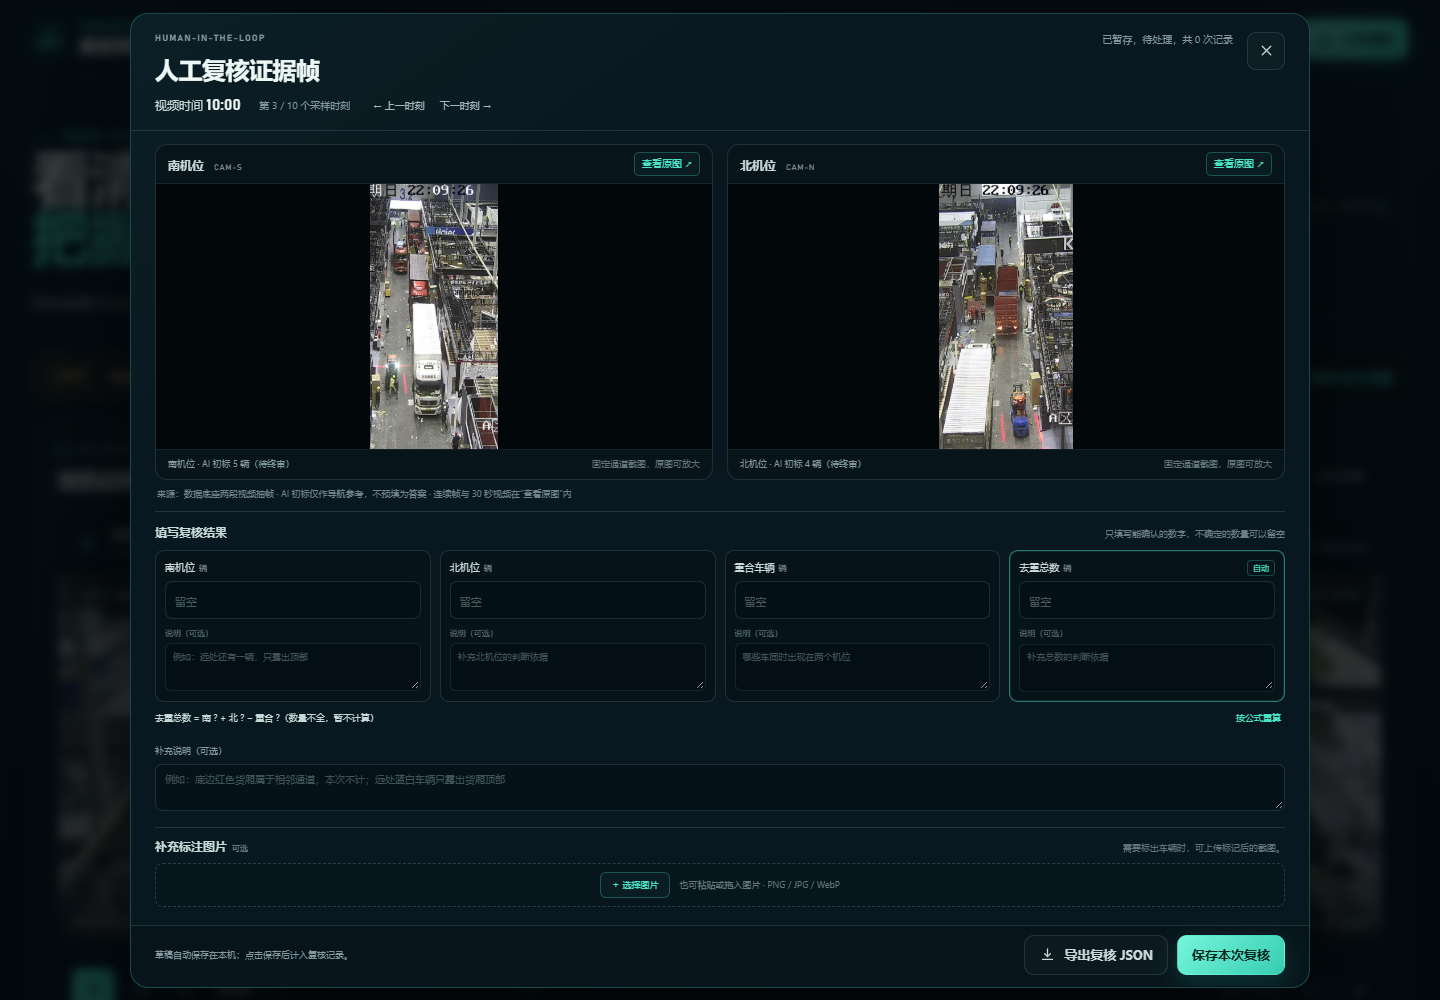
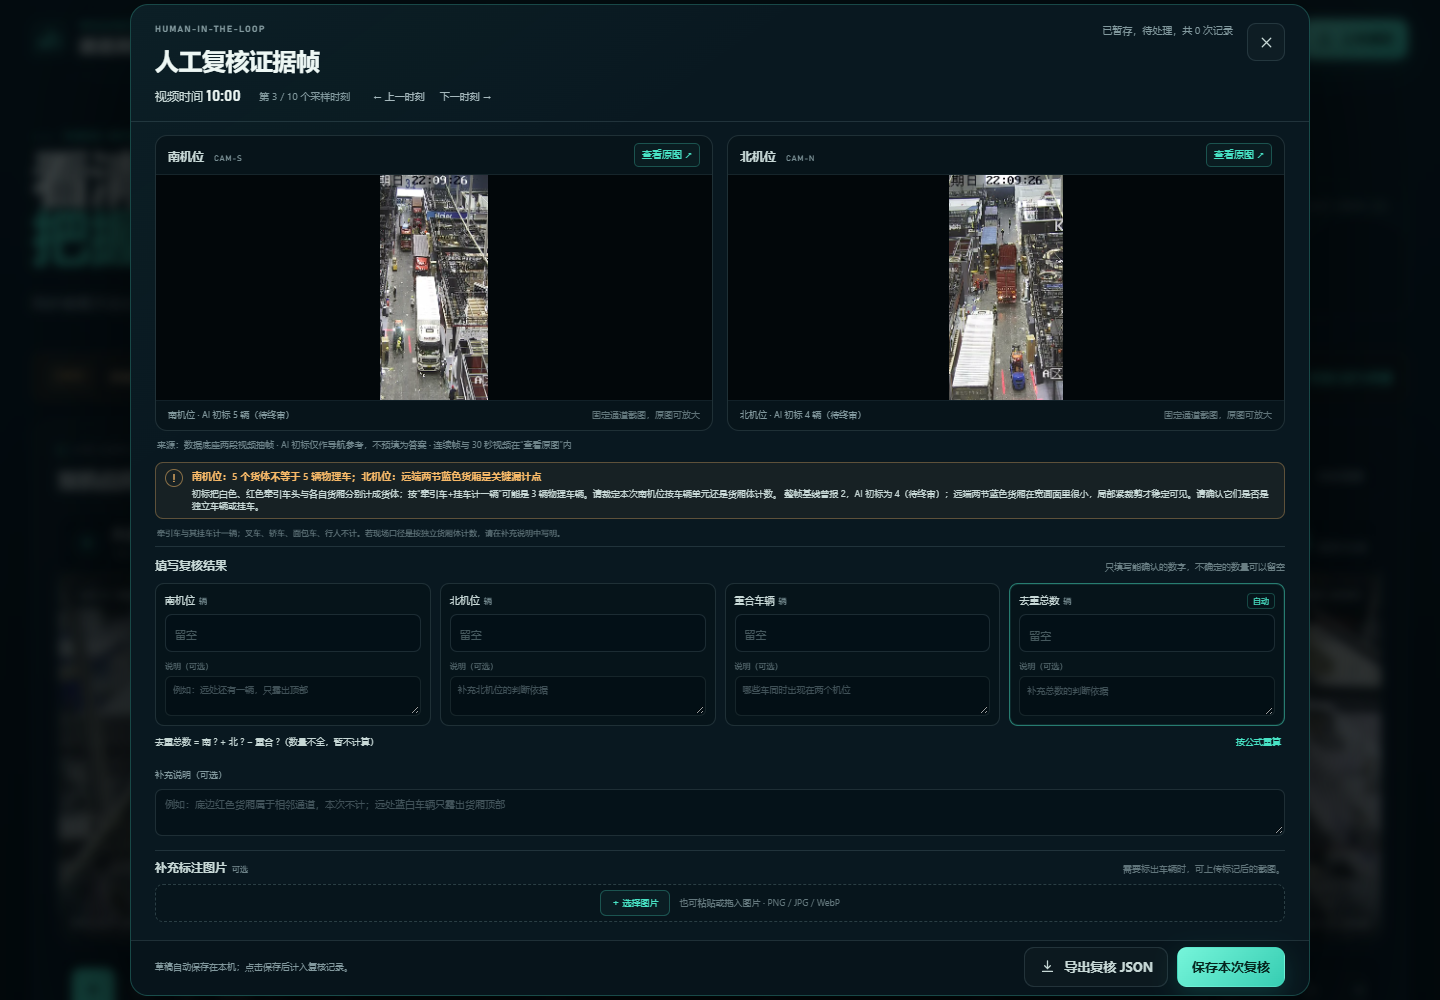
feat(review): surface unresolved counting-definition blockers
Add per-sample adjudication notices for tractor-trailer pairing, corridor membership and far cargo bodies. Keep all labels blank and unresolved; the review modal explains the conflict without choosing a number for the user.

diff --git a/styles.css b/styles.css
@@ -3729,7 +3729,7 @@ body.is-drawer-open {
 
 .review-modal {
   width: min(1180px, calc(100vw - 48px));
-  max-height: calc(100vh - 20px);
+  max-height: calc(100vh - 8px);
   border-color: rgba(72, 227, 197, 0.24);
 }
 
@@ -3883,7 +3883,7 @@ body.is-drawer-open {
 
 .review-evidence-stage {
   display: flex;
-  height: 265px;
+  height: 225px;
   min-width: 0;
   align-items: center;
   justify-content: center;
@@ -3924,8 +3924,53 @@ body.is-drawer-open {
   font-size: 9px;
 }
 
+.review-definition-note {
+  display: flex;
+  align-items: flex-start;
+  gap: 9px;
+  margin: 0 0 8px;
+  padding: 6px 9px;
+  border: 1px solid rgba(247, 185, 104, 0.32);
+  border-radius: 8px;
+  background: rgba(247, 185, 104, 0.055);
+}
+
+.review-definition-icon {
+  display: grid;
+  width: 18px;
+  height: 18px;
+  flex: 0 0 auto;
+  place-items: center;
+  border: 1px solid rgba(247, 185, 104, 0.5);
+  border-radius: 50%;
+  color: var(--amber);
+  font-family: var(--font-display);
+  font-size: 11px;
+}
+
+.review-definition-note strong {
+  display: block;
+  color: var(--amber);
+  font-size: 10px;
+  font-weight: 600;
+}
+
+.review-definition-note p {
+  margin: 2px 0 0;
+  color: var(--ink-soft);
+  font-size: 9px;
+  line-height: 1.4;
+}
+
+.review-definition-rule {
+  margin: 0 2px 7px;
+  color: rgba(130, 153, 158, 0.76);
+  font-size: 8px;
+  line-height: 1.5;
+}
+
 .review-result-block {
-  padding-top: 11px;
+  padding-top: 9px;
   border-top: 1px solid var(--line);
 }
 
@@ -4033,7 +4078,7 @@ body.is-drawer-open {
 
 .review-field textarea {
   width: 100%;
-  min-height: 48px;
+  min-height: 40px;
   margin-top: 4px;
   padding: 6px 7px;
   resize: vertical;
@@ -4096,7 +4141,7 @@ body.is-drawer-open {
 
 .review-wide-field textarea {
   width: 100%;
-  min-height: 46px;
+  min-height: 40px;
   margin-top: 4px;
   padding: 7px 9px;
   resize: vertical;
@@ -4108,8 +4153,8 @@ body.is-drawer-open {
 }
 
 .review-attachment {
-  margin-top: 10px;
-  padding-top: 9px;
+  margin-top: 8px;
+  padding-top: 7px;
   border-top: 1px solid var(--line);
 }
 
@@ -4140,7 +4185,7 @@ body.is-drawer-open {
 
 .review-dropzone {
   display: flex;
-  min-height: 44px;
+  min-height: 38px;
   align-items: center;
   justify-content: center;
   gap: 10px;
@@ -4222,7 +4267,7 @@ body.is-drawer-open {
 
 .review-modal-actions {
   flex: 0 0 auto;
-  padding: 9px 24px 12px;
+  padding: 6px 24px 8px;
 }
 
 .review-save-note {

diff --git a/review-modal.js b/review-modal.js
@@ -26,6 +26,10 @@
     northCrop: $("#reviewNorthCrop"),
     southCaption: $("#reviewSouthCaption"),
     northCaption: $("#reviewNorthCaption"),
+    definitionNote: $("#reviewDefinitionNote"),
+    definitionTitle: $("#reviewDefinitionTitle"),
+    definitionDetail: $("#reviewDefinitionDetail"),
+    definitionRule: $("#reviewDefinitionRule"),
     southCount: $("#reviewSouthCount"),
     northCount: $("#reviewNorthCount"),
     overlapCount: $("#reviewOverlapCount"),
@@ -308,6 +312,31 @@
     el.northCaption.textContent = `${cameraName(northCamera)} · AI 初标 ${northTotal} 辆（待终审）`;
   }
 
+  function renderDefinitionNote() {
+    const blockers = state.reviewData?.definitionBlockers;
+    const generic = blockers?.by_sample?.[String(state.currentTime)];
+    const northSpecific = blockers?.by_sample?.[`${state.currentTime}_north`];
+    const items = [generic, northSpecific].filter(Boolean);
+    el.definitionRule.textContent = blockers?.rule
+      || "本页口径：牵引车与其挂车计一辆；叉车、轿车、面包车、行人不计。若按独立货厢体计数，请在补充说明中写明。";
+    el.definitionNote.hidden = items.length === 0;
+    if (!items.length) {
+      el.definitionTitle.textContent = "";
+      el.definitionDetail.textContent = "";
+      el.definitionNote.classList.remove("is-error");
+      return;
+    }
+    el.definitionTitle.textContent = items
+      .map((item) => item.title)
+      .filter(Boolean)
+      .join("；");
+    el.definitionDetail.textContent = items
+      .map((item) => item.detail)
+      .filter(Boolean)
+      .join(" ");
+    el.definitionNote.classList.toggle("is-error", items.some((item) => item.severity === "error"));
+  }
+
   function renderHeader() {
     const samples = [...ctx.getSamples()].sort((left, right) => left.time - right.time);
     const index = samples.findIndex((sample) => sample.time === state.currentTime);
@@ -322,6 +351,7 @@
   function renderModal() {
     renderHeader();
     renderEvidenceImages();
+    renderDefinitionNote();
     fillFields();
     const record = state.record;
     el.saveNote.textContent = record.status === "saved"

diff --git a/index.html b/index.html
@@ -863,6 +863,17 @@
           来源：数据底座两段视频抽帧 · AI 初标仅作导航参考，不预填为答案 · 连续帧与 30 秒视频在“查看原图”内
         </p>
 
+        <div class="review-definition-note" id="reviewDefinitionNote" hidden>
+          <span class="review-definition-icon" aria-hidden="true">!</span>
+          <div>
+            <strong id="reviewDefinitionTitle">口径待裁定</strong>
+            <p id="reviewDefinitionDetail"></p>
+          </div>
+        </div>
+        <p class="review-definition-rule" id="reviewDefinitionRule">
+          本页口径：牵引车与其挂车计一辆；叉车、轿车、面包车、行人不计。若按独立货厢体计数，请在补充说明中写明。
+        </p>
+
         <section class="review-result-block" aria-labelledby="reviewResultTitle">
           <div class="review-result-head">
             <h3 id="reviewResultTitle">填写复核结果</h3>
